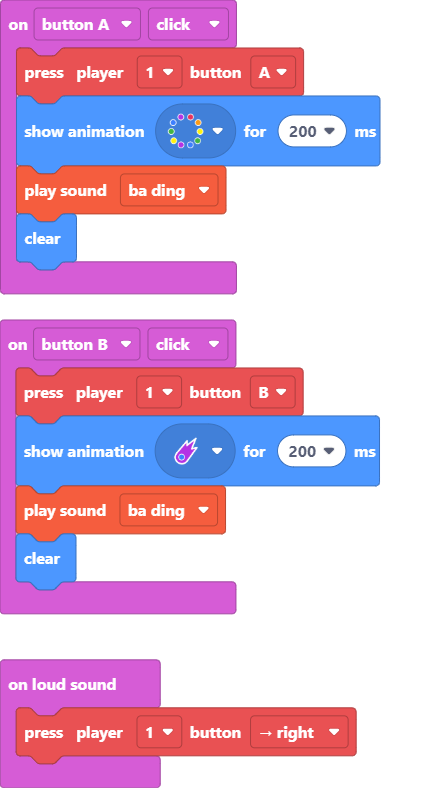
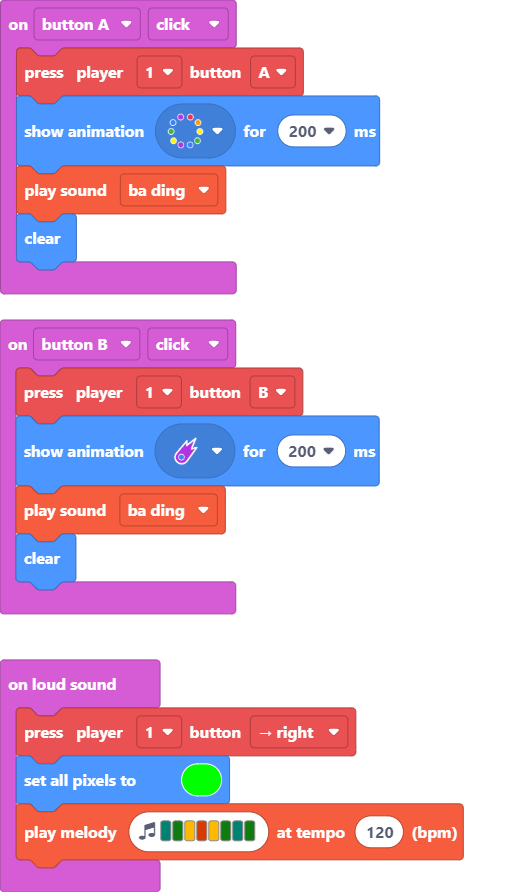
Update main.blocks, main.ts

diff --git a/main.ts b/main.ts
@@ -1,5 +1,7 @@
 input.onLoudSound(function () {
     makerController.player1.press(ArcadeButton.Right)
+    light.setAll(0x00ff00)
+    music.playMelody("F G A B A G F G ", 120)
 })
 input.buttonA.onEvent(ButtonEvent.Click, function () {
     makerController.player1.press(ArcadeButton.A)
